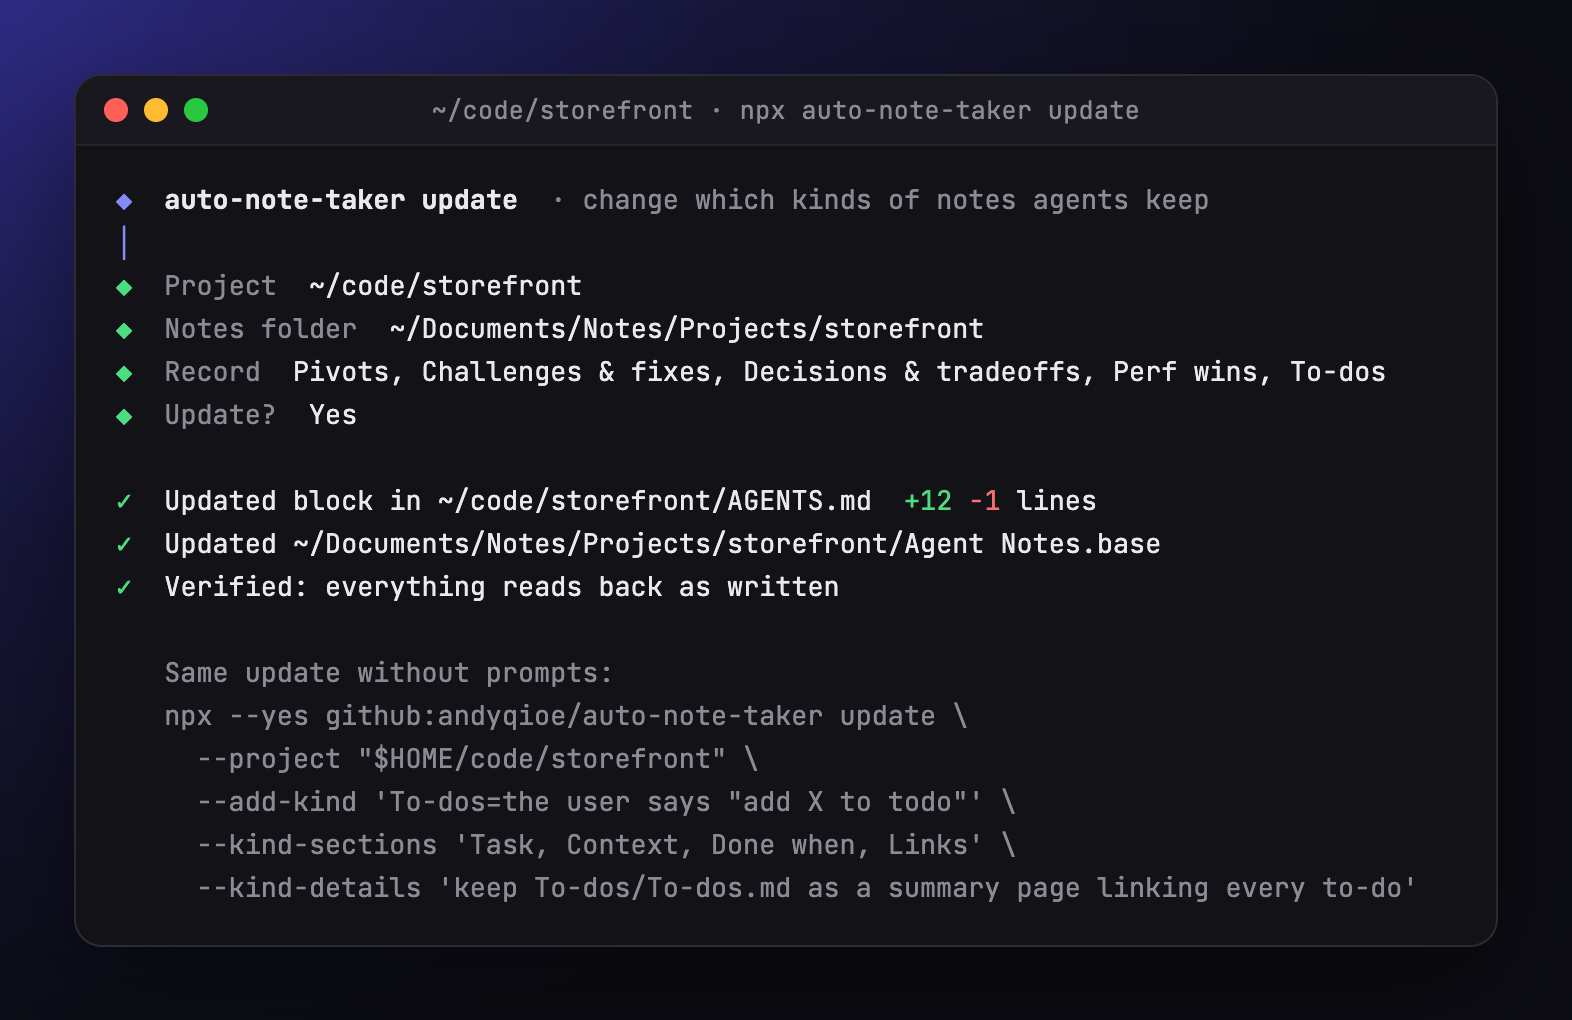
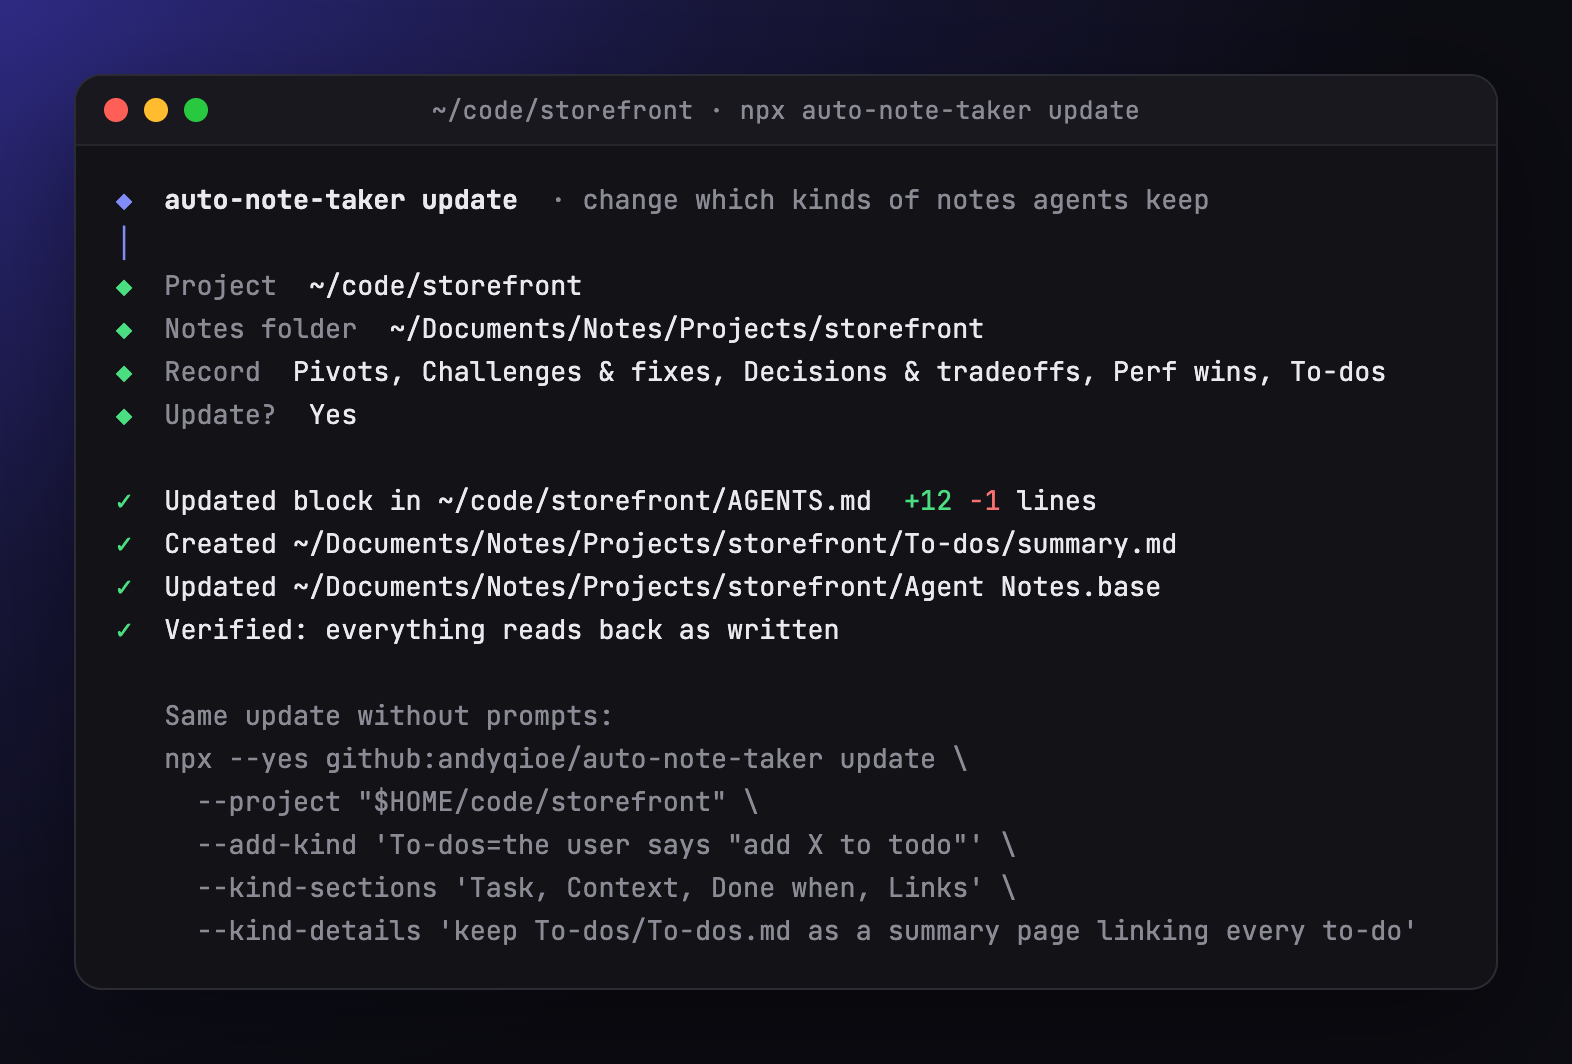
Give every kind's folder a summary.md built from its notes
Each summary lists the kind's notes by category, newest first, with path
links, sub-category, status and last update, and counts open notes. The
installer and update rebuild it from the notes' properties once the notes
folder exists; agents add their row when they write a note. Cleanup treats
managed summaries as its own, so they never move or keep a folder alive.
Release 0.4.0.

diff --git a/README.md b/README.md
@@ -395,6 +395,7 @@ Other flags, such as `--notes-dir` or `--skip`, belong to the full installer.
 
 - **Flat notes move into topic folders.** A note named `pool-hostMode-fencingDesign.md` directly in its kind's folder moves to `pool/hostMode/fencingDesign.md` under it. Every link to it in the vault is rewritten to the new path: `[[wikilinks]]` (keeping their text), embeds, and Markdown links, absolute or relative. A note whose new place is taken stays where it is, and a name that does not follow the old pattern (`Meeting notes.md`) is left alone.
 - **A kind whose name holds its instructions gets a short name.** A name such as `To-dos - if the user says "add to todo" keep a summary page` becomes `To-dos`, and the rest of the old name becomes the first part of the kind's instructions. Its notes move to the short folder and their tag changes to the short one, so the dashboard finds them.
+- **Every kind gets its summary.** Each kind's `summary.md` is rebuilt from its notes (see [What agents record](#what-agents-record)).
 - **Leftovers are removed.** The folder of a kind you no longer record is removed when nothing but empty folders is in it, and a `Tactical Direction.base` from an early version is removed when it is still exactly as that version wrote it. A note is never deleted.
 
 Then it reads everything back: the block must parse to the settings it was given and match what they render, and every moved or edited note must be in place with its new text.
@@ -490,6 +491,26 @@ Agent Notes/
 The path is `<kind folder>/<category>/<sub-category>/<detail>.md`; a note with no sub-category sits in `<kind folder>/<category>/`.
 Agents reuse the category and sub-category folders that already exist, in every kind, so one topic has one name everywhere, and the note's nested tag (`pool/hostMode`) matches its folders.
 Because a file name such as `stateHandling.md` can appear in more than one folder, agents link to notes by path: `[[Tactical Direction/proxy/session/stateHandling|Session state stays in the controller]]`, from the vault root when the notes are in an Obsidian vault.
+
+Each kind's folder also has a `summary.md`: every note of that kind, grouped by category, newest first, each with its title as a link, its sub-category, status and last update.
+The banner counts the notes and how many are still open.
+
+```markdown
+# Decisions & tradeoffs summary
+
+> [!info|banner] 3 notes, 1 open, last updated 2026-10-07 09:00:00
+
+## pool
+
+| Note | Sub-category | Status | Updated |
+| --- | --- | --- | --- |
+| [[Decisions/pool/hostMode/generations\|Fences carry generation numbers]] | hostMode | proposed | 2026-10-07 09:00:00 |
+| [[Decisions/pool/hostMode/fencingDesign\|The controller fences workers]] | hostMode | made | 2026-10-06 10:00:00 |
+```
+
+Agents add their note's row when they write one.
+The installer and `update` rebuild every summary from the notes' own properties, so the page always matches the notes; a summary has no kind tag, so the dashboard never counts it as a note.
+Summaries are written once the notes folder exists, and a summary whose `auto-note-taker: managed summary` line you delete is yours and is left alone.
 
 Notes link to each other where one led to another: a dead end to the pivot it caused, a challenge to the decision it forced.
 
@@ -646,6 +667,7 @@ lib/diff.mjs                         the line diff every run shows of AGENTS.md
 lib/kinds.mjs                        the note kinds and exclusions, and selection validation
 lib/layout.mjs                       moves flat notes into topic folders and rewrites the links to them
 lib/cleanup.mjs                      what update tidies (kind names, leftovers) and the read-back check of every write
+lib/summary.mjs                      each kind's summary.md, built from its notes' properties
 lib/obsidian.mjs                     vault discovery, snippet, and the dashboard generated from the chosen kinds
 lib/ui.mjs                           dependency-free terminal prompts, including the checklist
 context/AGENTS.md                    the shared instructions that get installed

diff --git a/context/AGENTS.md b/context/AGENTS.md
@@ -24,6 +24,7 @@ When a topic already has a note, update that note instead of starting another.
 - Before creating a folder, list the folders the notes already use, in every kind, and reuse a matching category or sub-category, so one topic has one name everywhere. Write folder and file names in lowerCamelCase.
 - The file name is only the last part (`stateHandling.md`), so the same name can appear in other folders. Link to a note by its path {{link_from}}, with the title as the link text: `{{link_example}}`. A link by name alone may open the wrong note.
 - The nested tag in `tags` is the note's category and sub-category folders, for example `proxy/session`.
+- Each kind's folder has a `summary.md` listing every note of that kind by category, with its status and last update. After creating or updating a note, add or update its row there in the same format, creating the page the same way if it is missing; the installer rebuilds these pages from the notes' properties.
 - The user's explicit naming convention takes precedence over generic filename style rules for these notes.
 - Each kind's section lists its required sections, in order. When a section has nothing to say, say so in one line; do not invent content to fill it.
 
